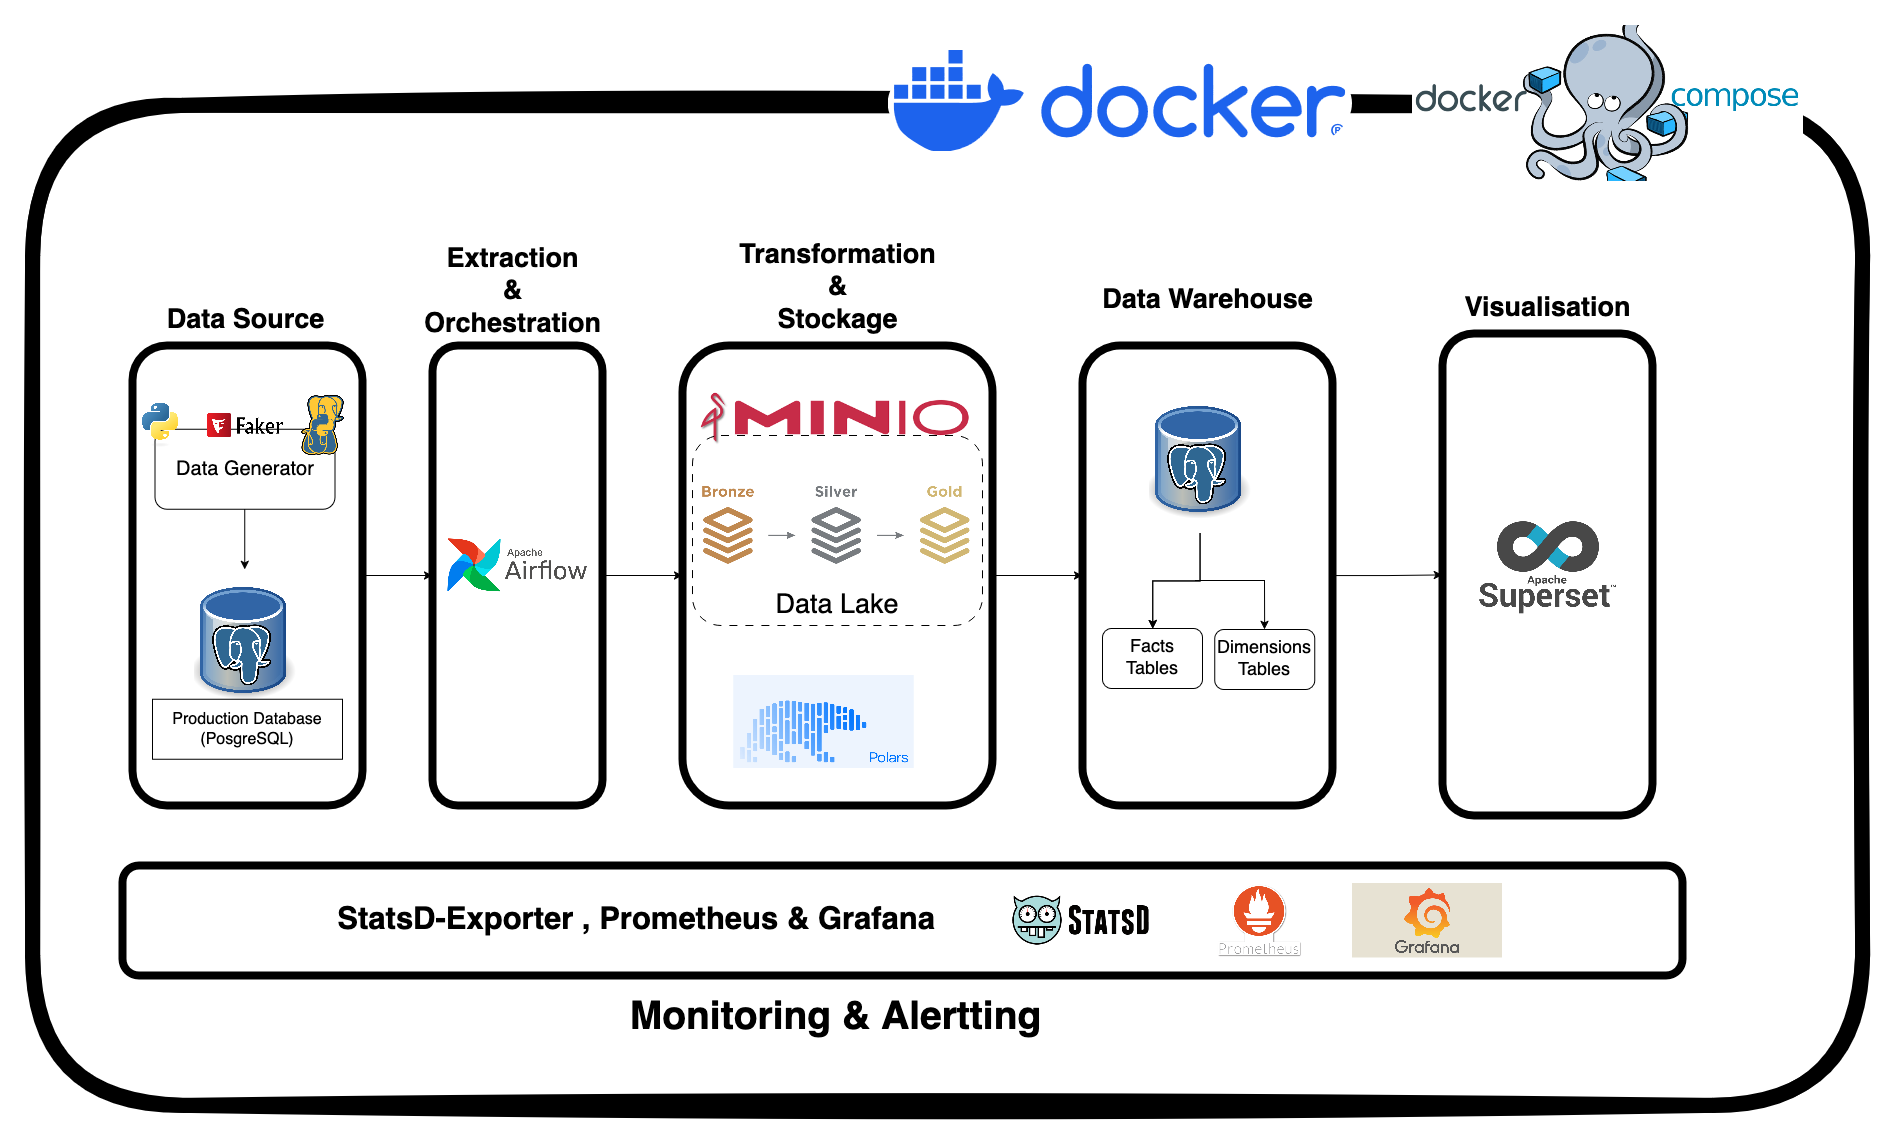
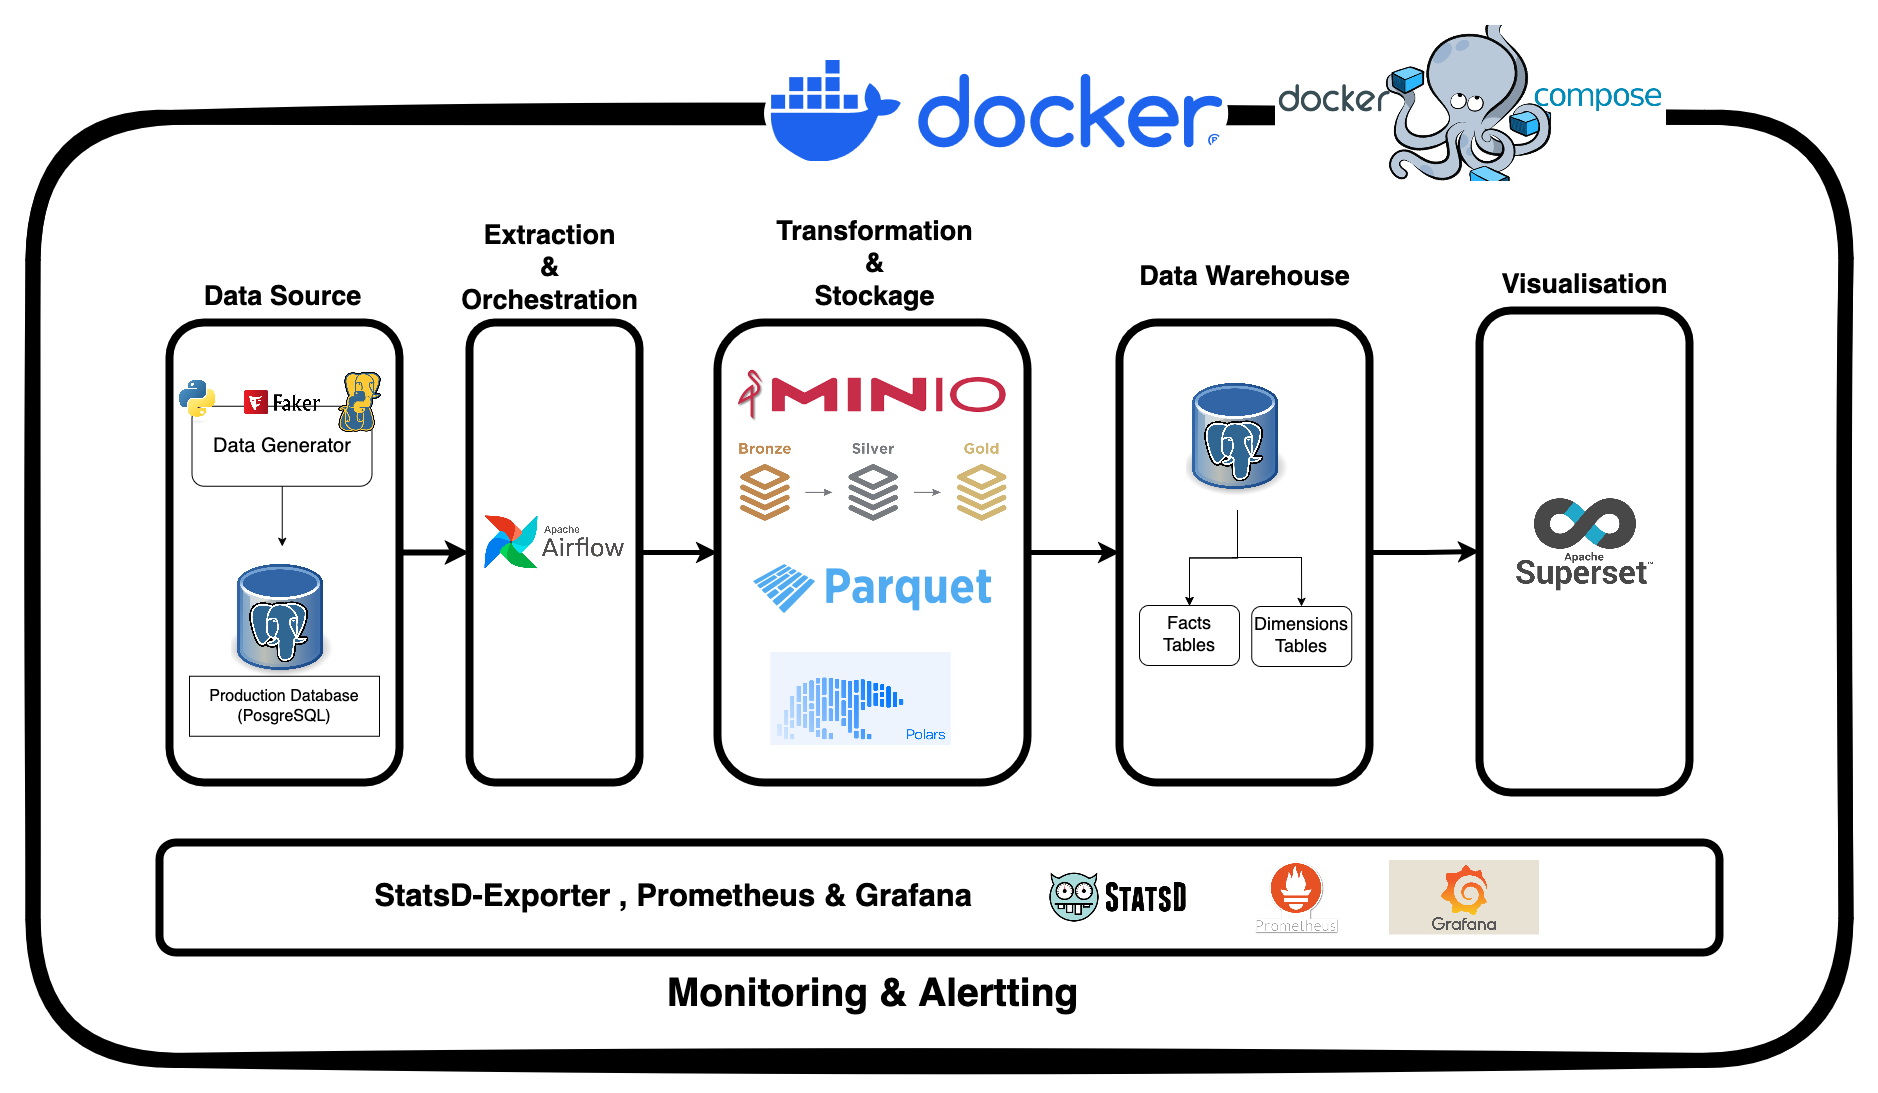
Update README.md: replace MinIO metrics dashboard image with monitoring architecture diagram for improved clarity

Changed region(s): [[0.0618, 0.1866, 0.9265, 0.9332], [0.0, 0.0, 0.9883, 0.2177]]

diff --git a/Readme.md b/Readme.md
@@ -43,8 +43,8 @@ A comprehensive data pipeline solution for an e-commerce platform, featuring:
 ### Monitoring & Analytics 📊
 
 #### Grafana Monitoring Dashboards
-![MinIO Metrics Dashboard](assets/img/minio-grafana.png)
-*MinIO performance monitoring*
+![Monitoring Architecture](assets/img/monitoring.png)
+*Monitoring Architecture*
 
 ![System Metrics Dashboard](assets/img/minio-grafana-2.png)
 *System resource utilization*
